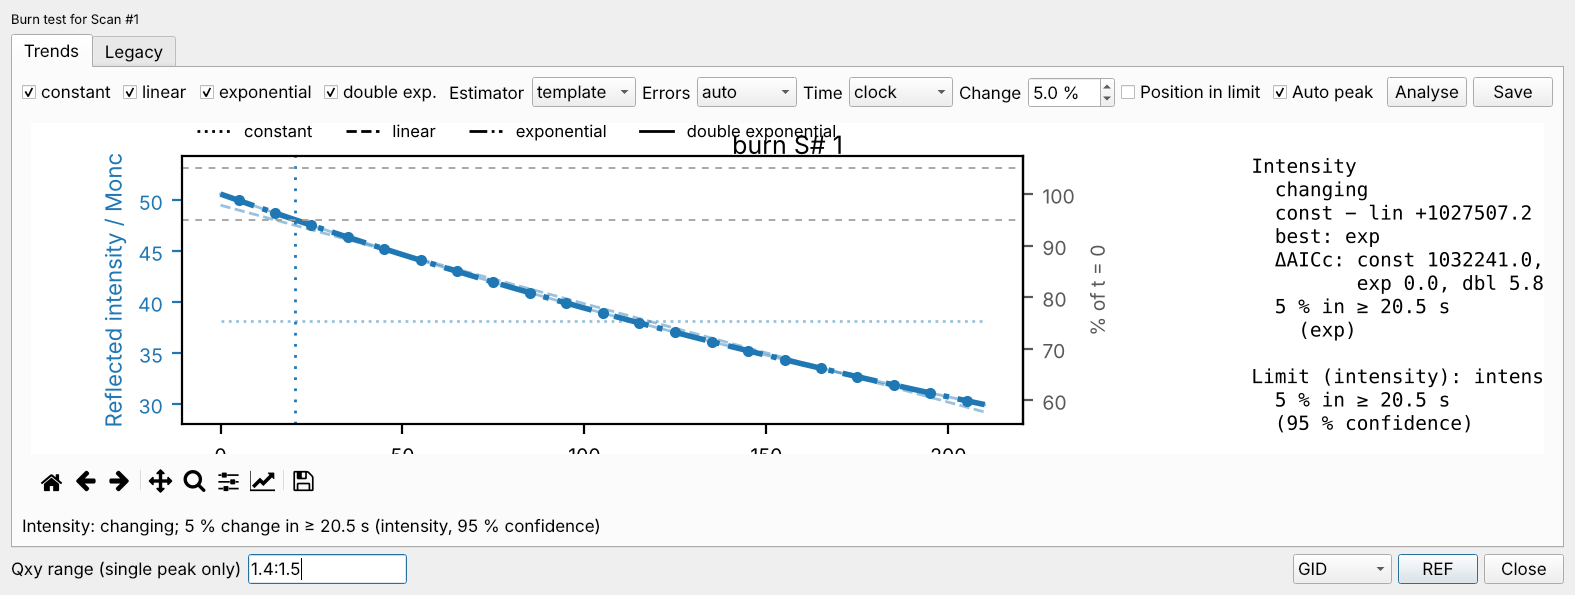
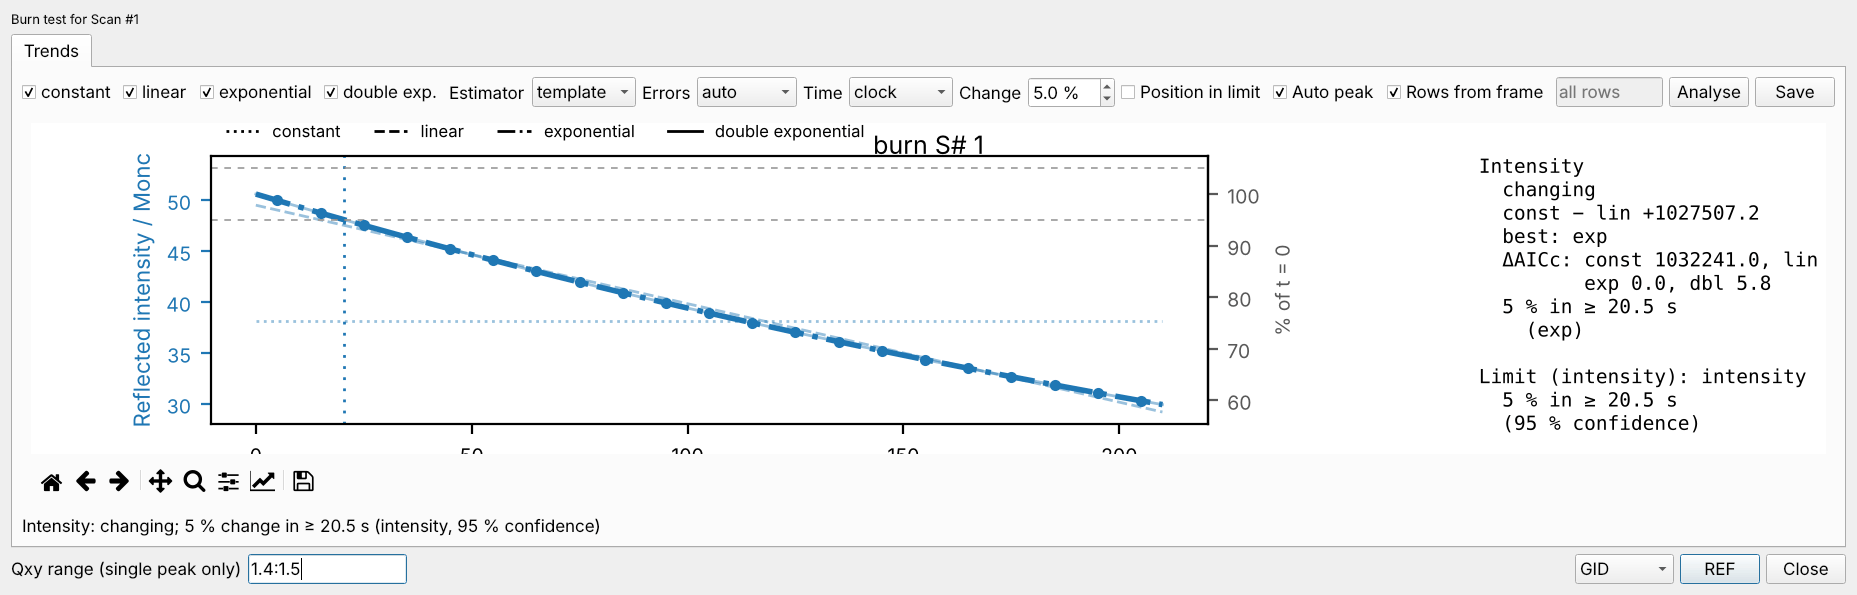
Burn dialog: the rows field wide enough for first:last; screenshots
The rows field cut '46:486' to '6:486'; it is now as wide as '0000:0000'
in its font. The two Trends-tab screenshots (gui_screens.py 50 and 54)
retaken with the new Rows from frame controls.

Claude-Session: https://claude.ai/code/session_017UNj92oeebHHmBzfCF19ve

diff --git a/mainwindow.py b/mainwindow.py
@@ -4810,7 +4810,7 @@ class MainWindow (QMainWindow):
         rowsEdit=QLineEdit(page)
         rowsEdit.setObjectName('burnRowsLineEdit')
         rowsEdit.setPlaceholderText('all rows')
-        rowsEdit.setMaximumWidth(80)
+        rowsEdit.setFixedWidth(rowsEdit.fontMetrics().horizontalAdvance('0000:0000')+16)   # room for first:last
         rowsEdit.setEnabled(not rauto.isChecked())
         rowsEdit.setToolTip('GID: the detector rows summed, first:last (both included). With "Rows from frame" on, '
                             'the rows found are shown here after Analyse; off, type them and press Enter. Empty: all '
